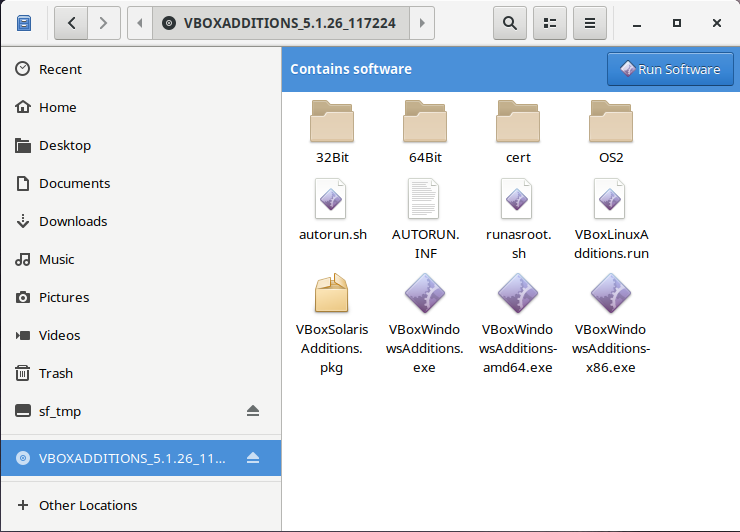
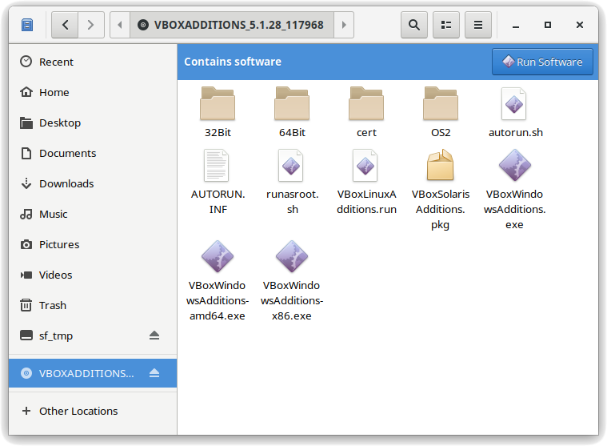
Update VirtualBox article.

Changed region(s): [[0.0, 0.0, 1.0, 1.0], [0.2372, 0.7287, 0.2669, 0.7578]]

diff --git a/themes/solus/layouts/partials/pages/download.html b/themes/solus/layouts/partials/pages/download.html
@@ -31,7 +31,7 @@
 					<section data-solus-type="solus-extra-info">
 						Media Size: {{ $editionInfo.mediasize }}<br />
 						Alternative Download: <a href="{{ $editionInfo.torrent }}">Torrent</a><br />
-						{{ $sha256url := printf "http://soluslond1iso.stroblindustries.com/Solus-%s-%s.sha256sum" $site.Data.isos.info.Version $edition | safeURL }}
+						{{ $sha256url := printf "https://soluslond1iso.stroblindustries.com/Solus-%s-%s.sha256sum" $site.Data.isos.info.Version $edition | safeURL }}
 						SHA256SUMS: <a href="{{ $sha256url }}" target="_blank">File</a> | <a href="{{ $sha256url }}.sign" target="_blank">Signed File</a> | <a href="https://archive.solus-project.com/solus.gpg" target="_blank">Public Key</a>
 					</section>
 				</div>

diff --git a/content/articles/software/virtualbox/en.md b/content/articles/software/virtualbox/en.md
@@ -18,7 +18,7 @@ are running, run the following in terminal:
 uname -r
 ```
 
-You will either have a `.current` or `.lts` suffix. Example: `4.12.7-11.current`
+You will either have a `.current` or `.lts` suffix. Examples: `4.12.12-19.current` or `4.9.49-46.lts`
 
 If you have an lts kernel, install the lts headers:
 
@@ -93,12 +93,12 @@ sudo usermod -aG vboxsf `whoami`
 ```
 ## Solus as Host
 
-Download the latest [VirtualBox Installer](https://www.virtualbox.org/wiki/Linux_Downloads) - [direct link](http://download.virtualbox.org/virtualbox/5.1.26/VirtualBox-5.1.26-117224-Linux_amd64.run) (5.1.26) right click link and Save As.
+Download the latest [VirtualBox Installer](https://www.virtualbox.org/wiki/Linux_Downloads) - [direct link](http://download.virtualbox.org/virtualbox/5.1.28/VirtualBox-5.1.28-117968-Linux_amd64.run) (5.1.28) right click link and Save As.
 Now install the dependencies and VirtualBox like so:
 
 ``` bash
 sudo eopkg it -c system.devel
-sudo sh ~/Downloads/VirtualBox-5.1.26-117224-Linux_amd64.run
+sudo sh ~/Downloads/VirtualBox-5.1.28-117968-Linux_amd64.run
 ```
 
 Replace the version number of the file with the one you downloaded.
